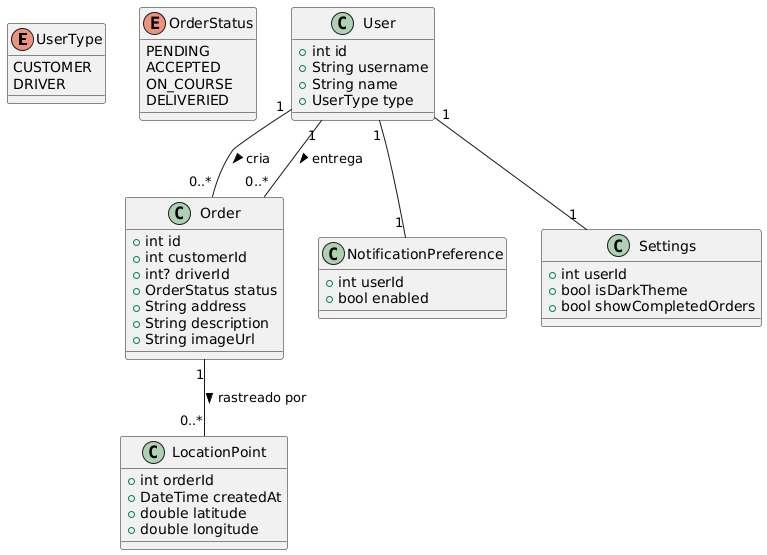
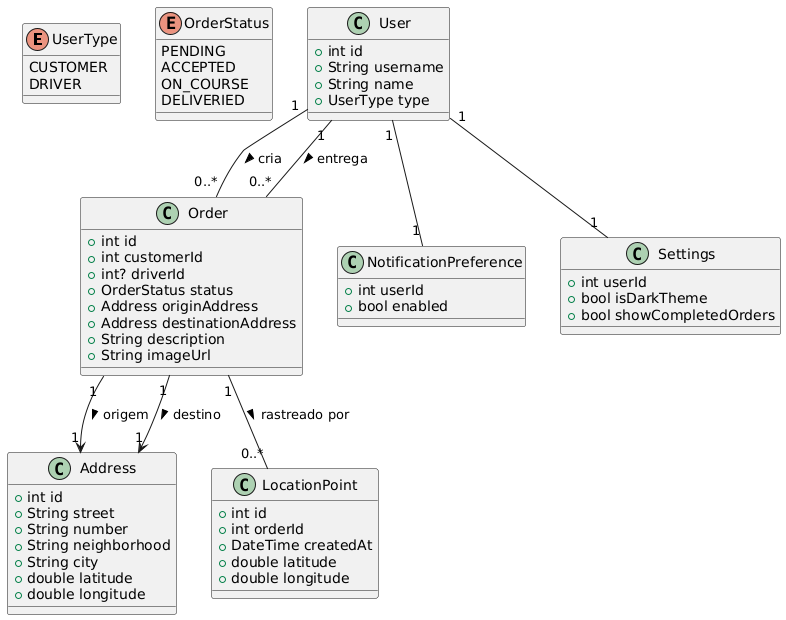
feat: add Address model and update related classes for order and location handling #21

Changed region(s): [[0.0, 0.0, 1.0, 1.0], [0.0, 0.0306, 0.1499, 0.1838]]

diff --git a/lib/models/order.dart b/lib/models/order.dart
@@ -1,3 +1,5 @@
+import 'address.dart';
+
 enum OrderStatus { PENDING, ACCEPTED, ON_COURSE, DELIVERIED }
 
 class Order {
@@ -5,7 +7,8 @@ class Order {
   final int customerId;
   final int? driverId;
   final OrderStatus status;
-  final String address;
+  final Address originAddress;
+  final Address destinationAddress;
   final String description;
   final String imageUrl;
 
@@ -14,7 +17,8 @@ class Order {
     required this.customerId,
     this.driverId,
     required this.status,
-    required this.address,
+    required this.originAddress,
+    required this.destinationAddress,
     required this.description,
     required this.imageUrl,
   });
@@ -25,24 +29,25 @@ class Order {
       customerId: json['customer_id'],
       driverId: json['driver_id'],
       status: OrderStatus.values.firstWhere((e) => e.name == json['status']),
-      address: json['address'],
+      originAddress: Address.fromJson(json['origin_address']),
+      destinationAddress: Address.fromJson(json['destination_address']),
       description: json['description'],
       imageUrl: json['image_url'],
     );
   }
 
-  Map<String, dynamic> toJson() {
-    return {
-      'id': id,
-      'customer_id': customerId,
-      'driver_id': driverId,
-      'status': status.name,
-      'address': address,
-      'description': description,
-      'image_url': imageUrl,
-    };
-  }
+  Map<String, dynamic> toJson() => {
+    'id': id,
+    'customer_id': customerId,
+    'driver_id': driverId,
+    'status': status.name,
+    'origin_address': originAddress.toJson(),
+    'destination_address': destinationAddress.toJson(),
+    'description': description,
+    'image_url': imageUrl,
+  };
 
-  factory Order.fromMap(Map<String, dynamic> map) => fromJson(map);
+  factory Order.fromMap(Map<String, dynamic> map) =>  Order.fromJson(map);
   Map<String, dynamic> toMap() => toJson();
 }
+

diff --git a/lib/models/address.dart b/lib/models/address.dart
@@ -1,0 +1,42 @@
+class Address {
+  final int id;
+  final String street;
+  final String number;
+  final String neighborhood;
+  final String city;
+  final double latitude;
+  final double longitude;
+
+  Address({
+    required this.id,
+    required this.street,
+    required this.number,
+    required this.neighborhood,
+    required this.city,
+    required this.latitude,
+    required this.longitude,
+  });
+
+  factory Address.fromJson(Map<String, dynamic> json) => Address(
+    id: json['id'],
+    street: json['street'],
+    number: json['number'],
+    neighborhood: json['neighborhood'],
+    city: json['city'],
+    latitude: json['latitude'],
+    longitude: json['longitude'],
+  );
+
+  Map<String, dynamic> toJson() => {
+    'id': id,
+    'street': street,
+    'number': number,
+    'neighborhood': neighborhood,
+    'city': city,
+    'latitude': latitude,
+    'longitude': longitude,
+  };
+
+  factory Address.fromMap(Map<String, dynamic> map) => Address.fromJson(map);
+  Map<String, dynamic> toMap() => toJson();
+}

diff --git a/lib/models/notification_preference.dart b/lib/models/notification_preference.dart
@@ -1,14 +1,17 @@
 class NotificationPreference {
+  final int id;
   final int userId;
   final bool enabled;
 
   NotificationPreference({
+    required this.id,
     required this.userId,
     required this.enabled,
   });
 
   factory NotificationPreference.fromJson(Map<String, dynamic> json) {
     return NotificationPreference(
+      id: json['id'],
       userId: json['user_id'],
       enabled: json['enabled'],
     );
@@ -16,11 +19,12 @@ class NotificationPreference {
 
   Map<String, dynamic> toJson() {
     return {
+      'id': id,
       'user_id': userId,
       'enabled': enabled,
     };
   }
 
-  factory NotificationPreference.fromMap(Map<String, dynamic> map) => fromJson(map);
+  factory NotificationPreference.fromMap(Map<String, dynamic> map) => NotificationPreference.fromJson(map);
   Map<String, dynamic> toMap() => toJson();
 }

diff --git a/lib/models/location_point.dart b/lib/models/location_point.dart
@@ -1,10 +1,12 @@
 class LocationPoint {
+  final int id;
   final int orderId;
   final DateTime createdAt;
   final double latitude;
   final double longitude;
 
   LocationPoint({
+    required this.id,
     required this.orderId,
     required this.createdAt,
     required this.latitude,
@@ -13,6 +15,7 @@ class LocationPoint {
 
   factory LocationPoint.fromJson(Map<String, dynamic> json) {
     return LocationPoint(
+      id: json['id'],
       orderId: json['order_id'],
       createdAt: DateTime.parse(json['created_at']),
       latitude: json['latitude'],
@@ -29,6 +32,6 @@ class LocationPoint {
     };
   }
 
-  factory LocationPoint.fromMap(Map<String, dynamic> map) => fromJson(map);
+  factory LocationPoint.fromMap(Map<String, dynamic> map) => LocationPoint.fromJson(map);
   Map<String, dynamic> toMap() => toJson();
 }

diff --git a/lib/models/settings.dart b/lib/models/settings.dart
@@ -25,6 +25,6 @@ class Settings {
     };
   }
 
-  factory Settings.fromMap(Map<String, dynamic> map) => fromJson(map);
+  factory Settings.fromMap(Map<String, dynamic> map) => Settings.fromJson(map);
   Map<String, dynamic> toMap() => toJson();
 }

diff --git a/lib/models/user.dart b/lib/models/user.dart
@@ -31,6 +31,6 @@ class User {
     };
   }
 
-  factory User.fromMap(Map<String, dynamic> map) => fromJson(map);
+  factory User.fromMap(Map<String, dynamic> map) => User.fromJson(map);
   Map<String, dynamic> toMap() => toJson();
 }
